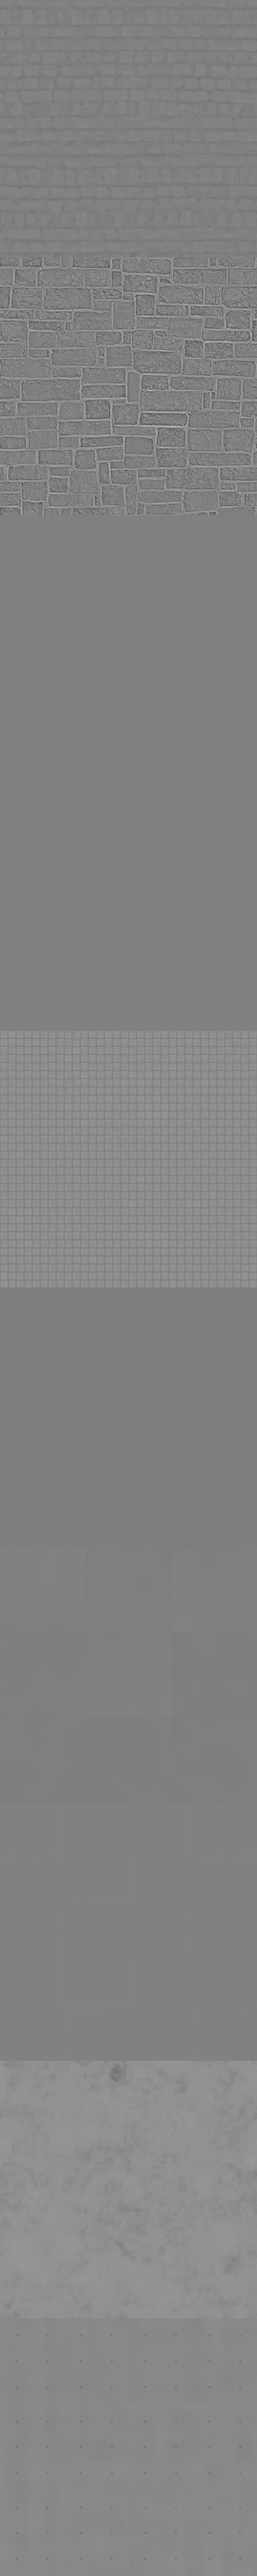
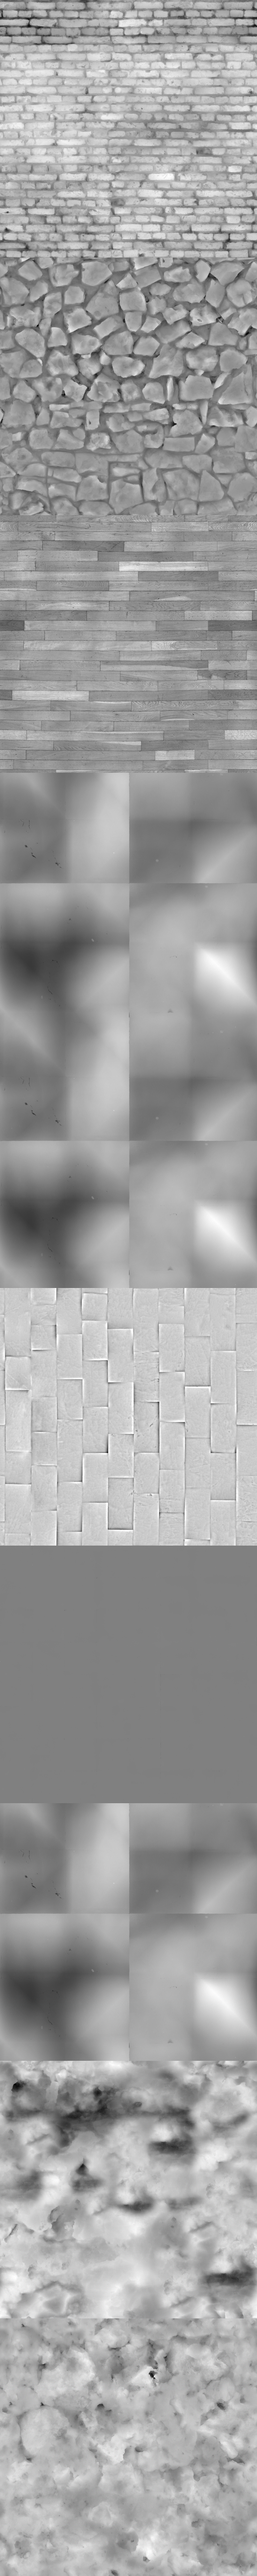
pbr changes and eula

diff --git a/src/platform/storage/desktopStorage.js b/src/platform/storage/desktopStorage.js
@@ -278,7 +278,15 @@ export class DesktopStorage {
     await this.writeEnvelopeSafe(saveSlotFile(slot), normalizePersistedSave(save, { profile, settings }), { schemaVersion: SAVE_SCHEMA_VERSION, baseDir: this.adapter.baseData });
   }
 
-  async deleteSave(slot = SAVE_SLOT_AUTOSAVE) { await this.adapter.remove(saveSlotFile(slot), this.adapter.baseData).catch(() => {}); }
+  async deleteSave(slot = SAVE_SLOT_AUTOSAVE) {
+    // A cleared run must not be reconstructed from the safety copy on the next
+    // launch. The backup belongs to the same save slot and therefore shares
+    // the slot's deletion lifetime.
+    await Promise.all([
+      this.adapter.remove(saveSlotFile(slot), this.adapter.baseData).catch(() => {}),
+      this.adapter.remove(saveSlotBackupFile(slot), this.adapter.baseData).catch(() => {}),
+    ]);
+  }
 
   async listSaves() {
     const out = [];

diff --git a/LEGAL/EULA.md b/LEGAL/EULA.md
@@ -1,0 +1,92 @@
+# Chunk Surfer End User License Agreement
+
+Version: 2026-07-16
+
+This End User License Agreement ("EULA") governs your use of Chunk Surfer, including the game application, bundled runtime components, local model resources, documentation, and updates provided with it (collectively, the "Game").
+
+If you do not agree to this EULA, do not install, launch, or use the Game.
+
+## 1. Storefront terms
+
+If you obtained the Game through Steam, itch.io, GitHub Releases, or another storefront or distribution service, that service's terms also apply to your download, purchase, refund, account, and platform use. This EULA governs the Game itself and the rights granted by the developer.
+
+## 2. Limited license
+
+The developer grants you a limited, revocable, non-exclusive, non-transferable license to install and use the Game for personal entertainment, testing, and review purposes, subject to this EULA and applicable law.
+
+You do not receive ownership of the Game, the source code, project assets, trademarks, or other developer-owned material. All rights not expressly granted are reserved.
+
+## 3. General restrictions
+
+You may not:
+
+- sell, rent, lease, sublicense, or commercially host the Game without permission;
+- remove copyright, license, attribution, or notice files from redistributed copies where redistribution is allowed;
+- use the Game to violate law, infringe rights, harass others, or distribute malicious content;
+- misrepresent your relationship with the developer or imply endorsement; or
+- use developer-owned names, logos, or branding except as allowed by law for commentary, reviews, or nominative reference.
+
+Nothing in this EULA limits rights you may have under mandatory consumer law, fair use, open-source licenses, Creative Commons licenses, or other third-party licenses that apply directly to specific third-party materials.
+
+## 4. Third-party materials
+
+The Game includes third-party materials under their own licenses and notices. Those notices are distributed with the Game and may include, without limitation:
+
+- local image-generation model resources and model cards;
+- open-source software libraries;
+- CC0/public-domain art, audio, and texture assets; and
+- permissively licensed runtime components.
+
+If a third-party license gives you rights to a specific third-party component, that license controls your rights to that component. You are responsible for complying with those third-party license terms if you extract, reuse, redistribute, modify, or operate those components outside ordinary gameplay.
+
+## 5. Bundled local AI model resources
+
+Chunk Surfer may include local model resources for offline environmental material generation. These resources are used as a constrained rendering/material pipeline for the Game. They are not provided as a general-purpose image-generation service.
+
+The bundled model stack may include Stable Diffusion 1.5, ControlNet depth resources for Stable Diffusion 1.5, Hyper-SD acceleration resources for Stable Diffusion 1.5, TAESD, model cards, and related inference files. These components are subject to their respective third-party licenses and notices, including responsible-AI model license restrictions and permissive software notices.
+
+As a condition of using the Game and its bundled model resources, you must comply with the model-use restrictions in Section 6. Those restrictions apply to your use of the bundled model resources, derivatives of those model resources, and outputs generated by those model resources.
+
+## 6. Mandatory model-use restrictions
+
+You must not use the bundled AI model resources, derivatives of those resources, or outputs from those resources:
+
+- in any way that violates applicable national, federal, state, local, or international law or regulation;
+- to exploit, harm, or attempt to exploit or harm minors;
+- to generate or disseminate verifiably false information or content for the purpose of harming others;
+- to generate or disseminate personally identifiable information that can be used to harm an individual;
+- to defame, disparage, or harass others;
+- for fully automated decision-making that adversely impacts legal rights or creates or modifies binding obligations;
+- for uses intended to discriminate against or harm individuals or groups based on online or offline social behavior or known or predicted personal or personality characteristics;
+- to exploit vulnerabilities of a group based on age, social, physical, or mental characteristics in a way likely to cause physical or psychological harm;
+- for uses intended to discriminate against individuals or groups based on legally protected characteristics or categories;
+- to provide medical advice or medical-results interpretation; or
+- to generate or disseminate information for administration of justice, law enforcement, immigration, or asylum processes, including predicting whether an individual will commit fraud or crime.
+
+You also must not use the Game's live or local generation features to create Adult Only sexual content, non-consensual sexual content, sexual content involving minors, illegal content, malware, or content that violates applicable storefront rules.
+
+## 7. Generated outputs
+
+The Game's local material-generation pipeline is intended to generate or modify environmental materials for gameplay and rendering. You are responsible for your use of any outputs you intentionally export, copy, publish, or redistribute outside the Game. No output may be used in a way that violates this EULA, applicable law, storefront rules, or the applicable third-party model licenses.
+
+## 8. No warranty
+
+The Game is provided "as is" and "as available" to the maximum extent permitted by law. The developer disclaims warranties of merchantability, fitness for a particular purpose, non-infringement, uninterrupted operation, and error-free operation.
+
+## 9. Limitation of liability
+
+To the maximum extent permitted by law, the developer will not be liable for indirect, incidental, special, consequential, exemplary, or punitive damages, or for loss of data, profits, goodwill, or business opportunity arising from or related to the Game.
+
+## 10. Termination
+
+This EULA terminates automatically if you materially breach it. On termination, you must stop using the Game and delete copies in your possession, except to the extent a storefront or applicable law gives you separate rights.
+
+Sections that by their nature should survive termination, including third-party license compliance, model-use restrictions, disclaimers, and limitations of liability, survive termination.
+
+## 11. Changes
+
+The developer may update this EULA for future versions of the Game. If a storefront or launcher presents an updated EULA, your continued use of the updated Game is conditioned on accepting the updated EULA.
+
+## 12. Contact
+
+For licensing or EULA questions, contact the developer through the official storefront, release page, or project support channel where you obtained the Game.
